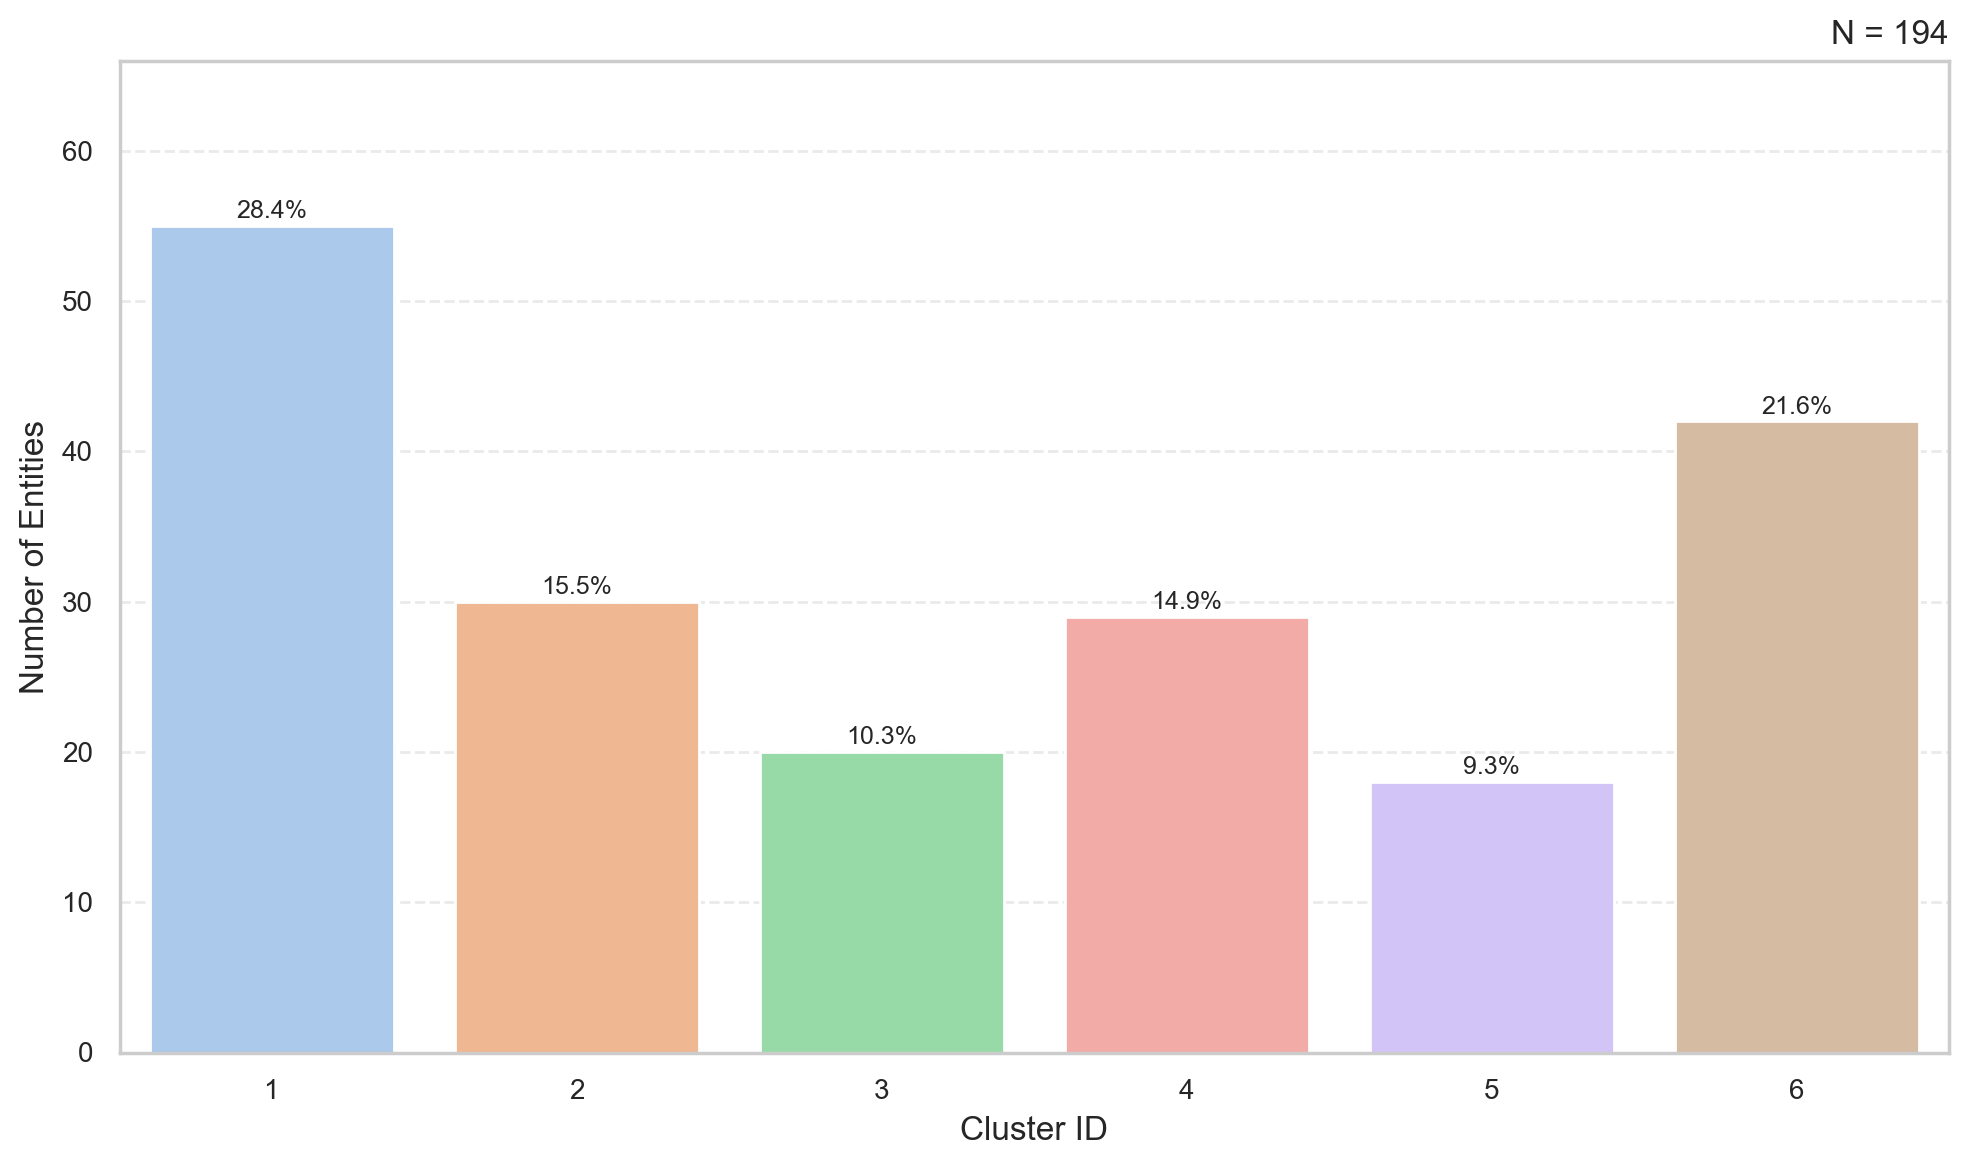
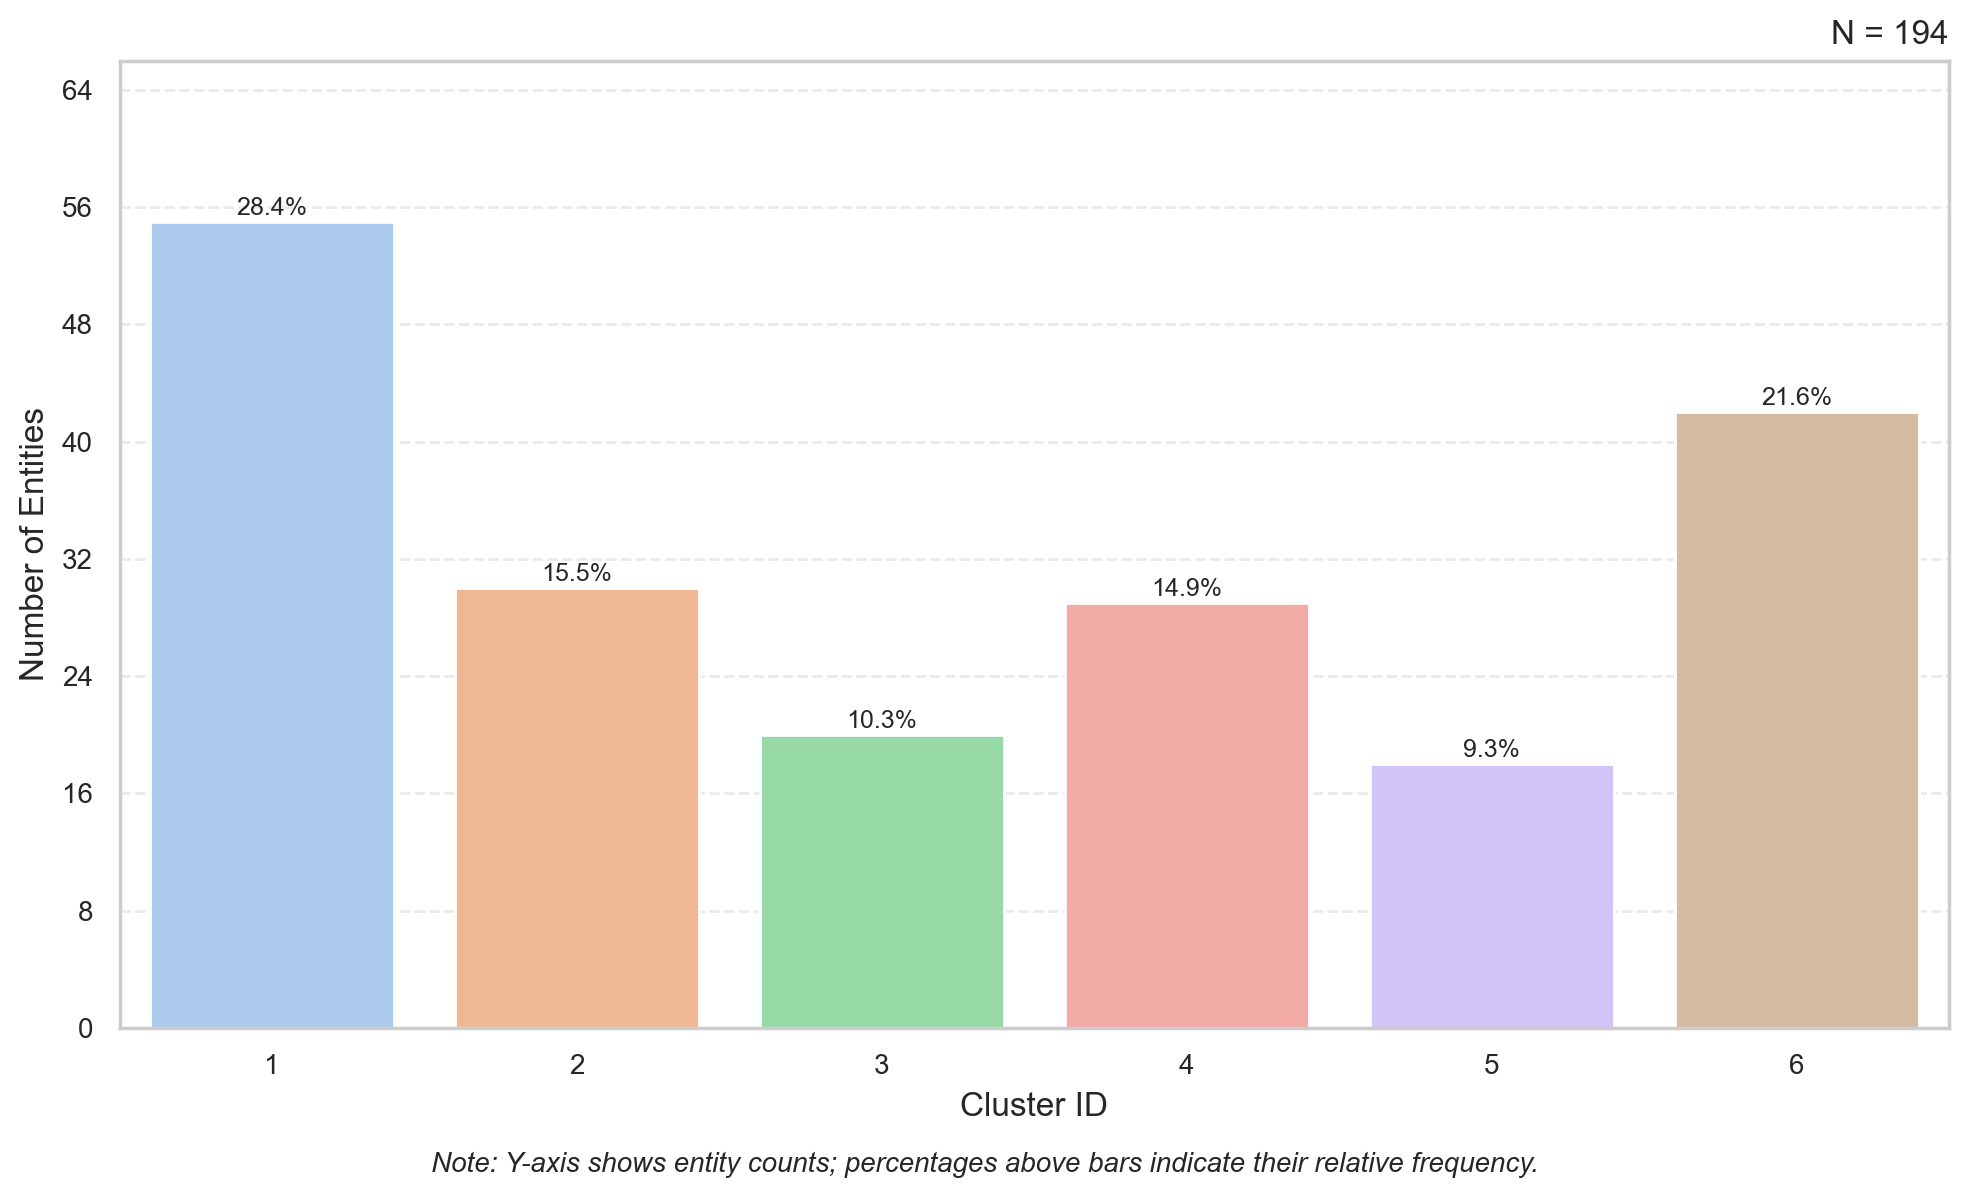
1.Force the y-axis in plot_cluster_distribution to display integer values. 2.Append a note below the plot_cluster_distribution plot.

diff --git a/sequenzo/clustering/hierarchical_clustering.py b/sequenzo/clustering/hierarchical_clustering.py
@@ -600,6 +600,9 @@ class ClusterResults:
         # Set the Y-axis range to prevent text overflow
         ax.set_ylim(0, distribution['Count'].max() * 1.2)
 
+        # Ensure Y-axis uses integer ticks
+        plt.gca().yaxis.set_major_locator(plt.MaxNLocator(integer=True))
+
         # Add percentage labels on top of bars
         for p, (_, row) in zip(ax.patches, distribution.iterrows()):
             height = p.get_height()
@@ -627,6 +630,13 @@ class ClusterResults:
 
         # Adjust layout
         plt.tight_layout()
+
+        # Adjust layout to make room for the note
+        plt.subplots_adjust(bottom=0.13)
+
+        # Add a note about normalization
+        norm_note = f"Note: Y-axis shows entity counts; percentages above bars indicate their relative frequency."
+        plt.figtext(0.5, 0.01, norm_note, ha='center', fontsize=10, style='italic')
 
         # Save and show the plot
         from sequenzo.visualization.utils import save_and_show_results
